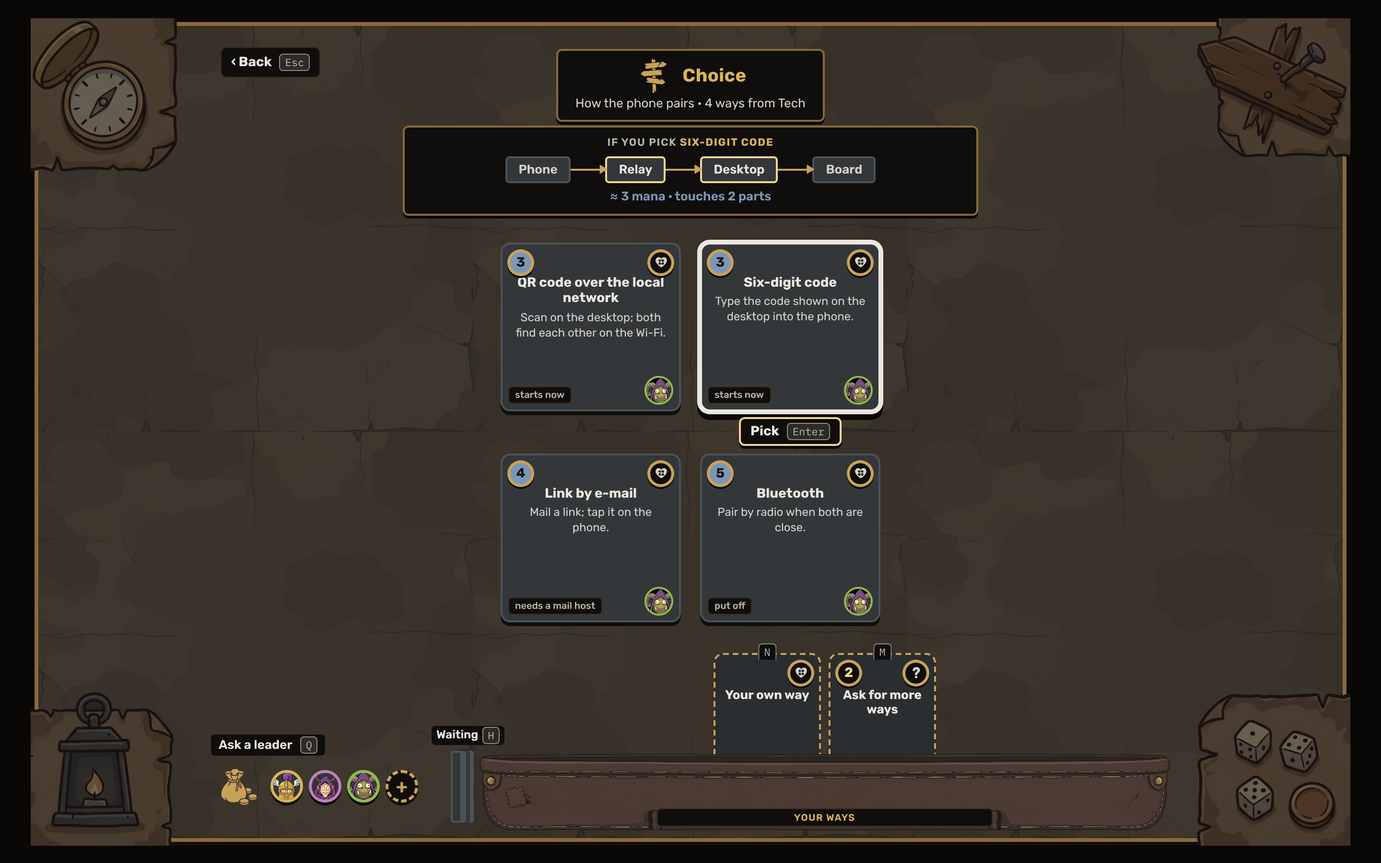
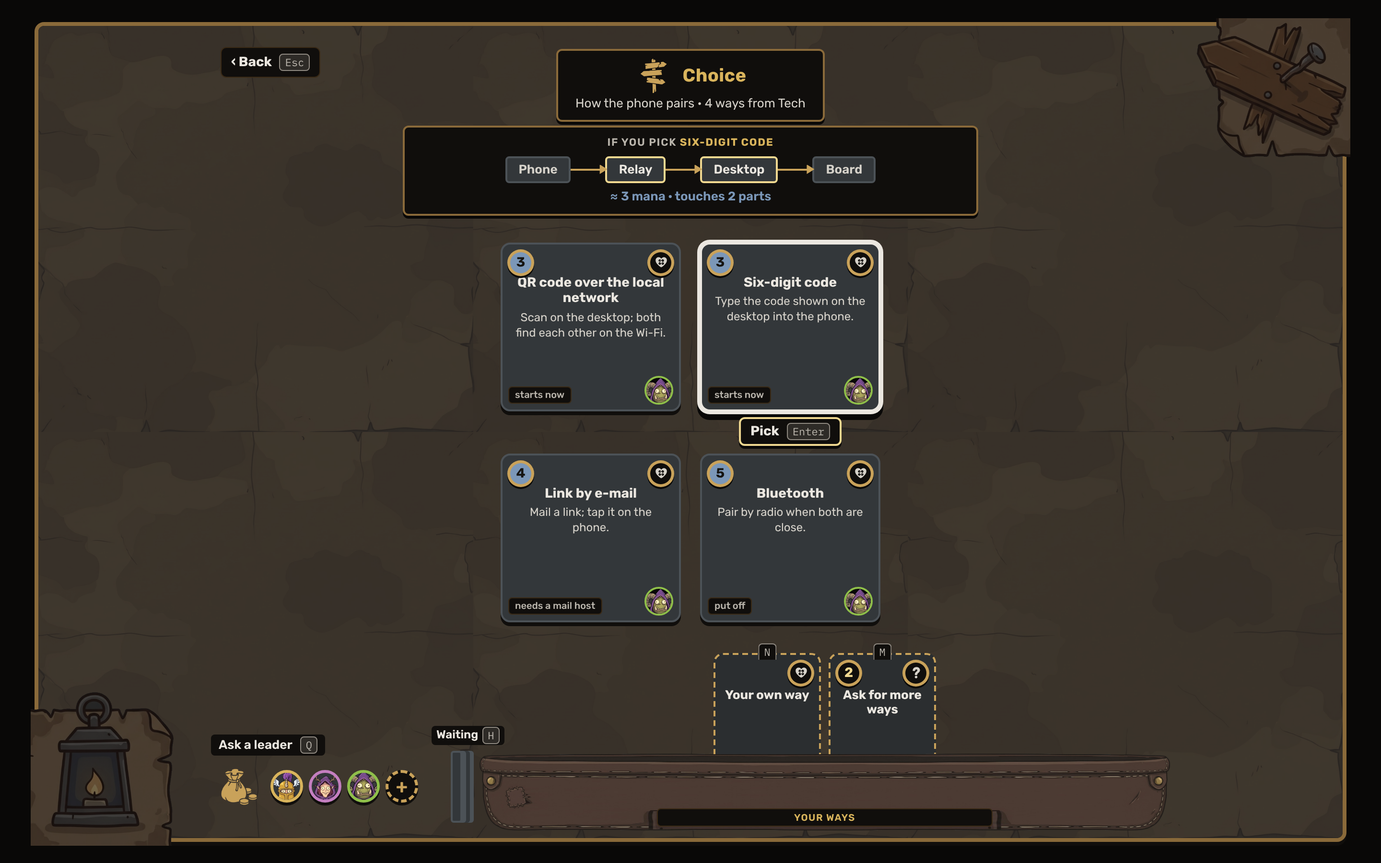
Mat mockups: two props, top right and bottom left (Back holds the top left, a new card the bottom right); on the phone the top right only
Claude-Session: https://claude.ai/code/session_01MCU3dnmwpxzAdFr5WE7TTZ

Changed region(s): [[0.0, 0.0, 0.125, 0.2178], [0.875, 0.8089, 1.0, 0.9956], [0.9062, 0.7778, 0.9375, 0.8089]]

diff --git a/docs/mockups/mat-scenes/slots.html b/docs/mockups/mat-scenes/slots.html
@@ -152,6 +152,11 @@ body[data-face="phone"] .plist { display: flex; flex-direction: column; gap: 18p
 .pc .seal .ic { width: 16px; height: 16px; } .pc .seal b { font-size: 11.5px; } .pc .seal small { width: 100%; text-align: center; font-size: 10.5px; }
 body[data-face="phone"] .pouchbar { top: 620px; }
 body[data-face="phone"] .hplate span { display: none; }
+/* two props, top right and bottom left (the person, 14 November 2026): Back holds the top left, a new card the bottom right */
+.prop.tl,.prop.br{display:none!important}
+.prop.bl{display:block!important}
+/* on the phone the foot is the hand's: the top right only */
+[data-face="phone"] .prop.bl{display:none!important}
 </style>
 </head>
 <body data-face="desk"><script>try { if (new URLSearchParams(location.search).get("face") === "phone") document.body.dataset.face = "phone"; } catch (e) {}</script><div class="stage"><div class="field" data-party="orkmaster"><div class="top"><span class="back">&lsaquo; Back <kbd class="k">Esc</kbd></span><div class="plate"><b><i aria-hidden="true"></i>Slots</b><span>Story map &middot; Product</span></div></div><div class="grid"><div></div><div class="jobh"><span class="gw tl"><span class="gem circle mana"><i class="in">3</i></span></span><span class="gw tr"><span class="gem circle"><i class="in"><i class="ru" style="--m:url(../../../design-system/orkui/runes/tusks.svg)"></i><i class="ks" style="--k:url(../../../design-system/orkui/signs/target.svg)"></i></i></span></span><img class="hd" src="../../../design-system/orkui/races/unicorn-elder.png" alt=""><b>Pair a phone</b></div><div class="jobh"><span class="gw tl"><span class="gem circle mana"><i class="in">2</i></span></span><span class="gw tr"><span class="gem circle"><i class="in"><i class="ru" style="--m:url(../../../design-system/orkui/runes/hook.svg)"></i><i class="ks" style="--k:url(../../../design-system/orkui/signs/target.svg)"></i></i></span></span><img class="hd" src="../../../design-system/orkui/races/unicorn-elder.png" alt=""><b>Send a goal</b></div><div class="jobh"><span class="gw tl"><span class="gem circle mana"><i class="in">5</i></span></span><span class="gw tr"><span class="gem circle"><i class="in"><i class="ru" style="--m:url(../../../design-system/orkui/runes/staff.svg)"></i><i class="ks" style="--k:url(../../../design-system/orkui/signs/target.svg)"></i></i></span></span><img class="hd" src="../../../design-system/orkui/races/unicorn-elder.png" alt=""><b>Answer a leader</b></div><div class="jobh"><span class="gw tl"><span class="gem circle mana"><i class="in">3</i></span></span><span class="gw tr"><span class="gem circle"><i class="in"><i class="ru" style="--m:url(../../../design-system/orkui/runes/key.svg)"></i><i class="ks" style="--k:url(../../../design-system/orkui/signs/target.svg)"></i></i></span></span><img class="hd" src="../../../design-system/orkui/races/unicorn-elder.png" alt=""><b>Ship a release</b></div><div></div><div class="card relc s"><span class="gw tl"><span class="gem circle mana"><i class="in">8</i></span></span><span class="gw tr"><span class="gem circle"><i class="in"><i class="ru" style="--m:url(../../../design-system/orkui/runes/hourglass.svg)"></i><i class="ks" style="--k:url(../../../design-system/orkui/signs/release.svg)"></i></i></span></span><img class="hd" src="../../../design-system/orkui/races/lich-elder.png" alt=""><b class="t">Release 1</b><span class="when">shipped 3 Nov</span></div><div class="cell "><div class="card s"><span class="gw tl"><span class="gem circle mana"><i class="in">2</i></span></span><span class="gw tr"><span class="gem circle"><i class="in"><i class="ru" style="--m:url(../../../design-system/orkui/runes/tusks.svg)"></i><i class="ks" style="--k:url(../../../design-system/orkui/signs/flag.svg)"></i></i></span></span><img class="hd" src="../../../design-system/orkui/races/shaman-elder.png" alt=""><b class="t">Scan the code</b><span class="when">shipped</span></div><div class="card s"><span class="gw tl"><span class="gem circle mana"><i class="in">1</i></span></span><span class="gw tr"><span class="gem circle"><i class="in"><i class="ru" style="--m:url(../../../design-system/orkui/runes/tusks.svg)"></i><i class="ks" style="--k:url(../../../design-system/orkui/signs/flag.svg)"></i></i></span></span><img class="hd" src="../../../design-system/orkui/races/shaman-elder.png" alt=""><b class="t">Pair by number</b><span class="when">shipped</span></div></div><div class="cell "><div class="card s"><span class="gw tl"><span class="gem circle mana"><i class="in">2</i></span></span><span class="gw tr"><span class="gem circle"><i class="in"><i class="ru" style="--m:url(../../../design-system/orkui/runes/hook.svg)"></i><i class="ks" style="--k:url(../../../design-system/orkui/signs/flag.svg)"></i></i></span></span><img class="hd" src="../../../design-system/orkui/races/dryad-elder.png" alt=""><b class="t">Add a goal</b><span class="when">shipped</span></div></div><div class="cell "><div class="card s"><span class="gw tl"><span class="gem circle mana"><i class="in">3</i></span></span><span class="gw tr"><span class="gem circle"><i class="in"><i class="ru" style="--m:url(../../../design-system/orkui/runes/staff.svg)"></i><i class="ks" style="--k:url(../../../design-system/orkui/signs/flag.svg)"></i></i></span></span><img class="hd" src="../../../design-system/orkui/races/shaman-elder.png" alt=""><b class="t">Answer in the app</b><span class="when">shipped</span></div><div class="card s"><span class="gw tl"><span class="gem circle mana"><i class="in">2</i></span></span><span class="gw tr"><span class="gem circle"><i class="in"><i class="ru" style="--m:url(../../../design-system/orkui/runes/ladder.svg)"></i><i class="ks" style="--k:url(../../../design-system/orkui/signs/flag.svg)"></i></i></span></span><img class="hd" src="../../../design-system/orkui/races/unicorn-elder.png" alt=""><b class="t">Choose a way</b><span class="when">shipped</span></div></div><div class="cell "><div class="card s"><span class="gw tl"><span class="gem circle mana"><i class="in">1</i></span></span><span class="gw tr"><span class="gem circle"><i class="in"><i class="ru" style="--m:url(../../../design-system/orkui/runes/key.svg)"></i><i class="ks" style="--k:url(../../../design-system/orkui/signs/flag.svg)"></i></i></span></span><img class="hd" src="../../../design-system/orkui/races/lich-elder.png" alt=""><b class="t">Write the notes</b><span class="when">shipped</span></div></div><div class="rend"><span class="done">All 4 goals in main</span></div><div class="card relc s"><span class="gw tl"><span class="gem circle mana"><i class="in">5</i></span></span><span class="gw tr"><span class="gem circle"><i class="in"><i class="ru" style="--m:url(../../../design-system/orkui/runes/hourglass.svg)"></i><i class="ks" style="--k:url(../../../design-system/orkui/signs/release.svg)"></i></i></span></span><img class="hd" src="../../../design-system/orkui/races/lich-elder.png" alt=""><b class="t">Release 2</b><span class="when">planned</span></div><div class="cell "><div class="card s"><span class="gw tl"><span class="gem circle mana"><i class="in">3</i></span></span><span class="gw tr"><span class="gem circle"><i class="in"><i class="ru" style="--m:url(../../../design-system/orkui/runes/tusks.svg)"></i><i class="ks" style="--k:url(../../../design-system/orkui/signs/flag.svg)"></i></i></span></span><img class="hd" src="../../../design-system/orkui/races/shaman-elder.png" alt=""><b class="t">Pair a second phone</b><span class="when">talk</span></div></div><div class="cell "><div class="card s"><span class="gw tl"><span class="gem circle mana"><i class="in">2</i></span></span><span class="gw tr"><span class="gem circle"><i class="in"><i class="ru" style="--m:url(../../../design-system/orkui/runes/hook.svg)"></i><i class="ks" style="--k:url(../../../design-system/orkui/signs/flag.svg)"></i></i></span></span><img class="hd" src="../../../design-system/orkui/races/gnome-elder.png" alt=""><b class="t">Send by mail</b><span class="when">spec</span></div><div class="card s"><span class="gw tl"><span class="gem circle mana"><i class="in">3</i></span></span><span class="gw tr"><span class="gem circle"><i class="in"><i class="ru" style="--m:url(../../../design-system/orkui/runes/hook.svg)"></i><i class="ks" style="--k:url(../../../design-system/orkui/signs/flag.svg)"></i></i></span></span><img class="hd" src="../../../design-system/orkui/races/dryad-elder.png" alt=""><b class="t">Send a photo</b><span class="when">new</span></div></div><div class="cell focus"><div class="card s"><span class="gw tl"><span class="gem circle mana"><i class="in">3</i></span></span><span class="gw tr"><span class="gem circle"><i class="in"><i class="ru" style="--m:url(../../../design-system/orkui/runes/staff.svg)"></i><i class="ks" style="--k:url(../../../design-system/orkui/signs/flag.svg)"></i></i></span></span><img class="hd" src="../../../design-system/orkui/races/dryad-elder.png" alt=""><b class="t">Pick a way by tap</b><span class="when">spec</span></div><div class="slot"><i class="plus"></i></div><span class="here">Place here <kbd>Enter</kbd></span></div><div class="cell empty "><i class="plus"></i></div><div class="rend"><div class="seal"><i class="ic"></i><b>Ship Release 2 <kbd>S</kbd></b><small>2 goals not in main</small></div></div><div class="frame-label">Not in a release<small>goals without a release</small></div><div class="cell empty "><i class="plus"></i></div><div class="cell "><div class="card s"><span class="gw tl"><span class="gem circle mana"><i class="in">2</i></span></span><span class="gw tr"><span class="gem circle"><i class="in"><i class="ru" style="--m:url(../../../design-system/orkui/runes/hook.svg)"></i><i class="ks" style="--k:url(../../../design-system/orkui/signs/flag.svg)"></i></i></span></span><img class="hd" src="../../../design-system/orkui/races/gnome-elder.png" alt=""><b class="t">Share a goal</b><span class="when">talk</span></div></div><div class="cell empty "><i class="plus"></i></div><div class="cell empty "><i class="plus"></i></div><div></div></div><div class="tabs"><span>R1</span><span class="on">R2</span><span>Not in a release</span></div><div class="plist"><div class="pc "><span class="lab">Pair a phone</span><div class="card s"><span class="gw tl"><span class="gem circle mana"><i class="in">3</i></span></span><span class="gw tr"><span class="gem circle"><i class="in"><i class="ru" style="--m:url(../../../design-system/orkui/runes/tusks.svg)"></i><i class="ks" style="--k:url(../../../design-system/orkui/signs/flag.svg)"></i></i></span></span><img class="hd" src="../../../design-system/orkui/races/shaman-elder.png" alt=""><b class="t">Pair a second phone</b><span class="when">talk</span></div></div><div class="pc "><span class="lab">Send a goal</span><div class="card s"><span class="gw tl"><span class="gem circle mana"><i class="in">2</i></span></span><span class="gw tr"><span class="gem circle"><i class="in"><i class="ru" style="--m:url(../../../design-system/orkui/runes/hook.svg)"></i><i class="ks" style="--k:url(../../../design-system/orkui/signs/flag.svg)"></i></i></span></span><img class="hd" src="../../../design-system/orkui/races/gnome-elder.png" alt=""><b class="t">Send by mail</b><span class="when">spec</span></div><div class="card s"><span class="gw tl"><span class="gem circle mana"><i class="in">3</i></span></span><span class="gw tr"><span class="gem circle"><i class="in"><i class="ru" style="--m:url(../../../design-system/orkui/runes/hook.svg)"></i><i class="ks" style="--k:url(../../../design-system/orkui/signs/flag.svg)"></i></i></span></span><img class="hd" src="../../../design-system/orkui/races/dryad-elder.png" alt=""><b class="t">Send a photo</b><span class="when">new</span></div></div><div class="pc focus"><span class="lab">Answer a leader</span><div class="card s"><span class="gw tl"><span class="gem circle mana"><i class="in">3</i></span></span><span class="gw tr"><span class="gem circle"><i class="in"><i class="ru" style="--m:url(../../../design-system/orkui/runes/staff.svg)"></i><i class="ks" style="--k:url(../../../design-system/orkui/signs/flag.svg)"></i></i></span></span><img class="hd" src="../../../design-system/orkui/races/dryad-elder.png" alt=""><b class="t">Pick a way by tap</b><span class="when">spec</span></div><div class="slot"><i class="plus"></i></div><span class="here">Place here</span></div><div class="pc empty"><span class="lab">Ship a release</span><i class="plus"></i><div class="seal"><i class="ic"></i><b>Ship Release 2</b><small>2 goals not in main</small></div></div></div><div class="waitpile" aria-label="Moves that wait"></div><span class="waitcap">Moves that wait</span><div class="hand"><div class="cards"><div class="card m"><span class="keytab">Place <kbd class="k">1</kbd></span><span class="gw tl"><span class="gem circle mana"><i class="in">3</i></span></span><span class="gw tr"><span class="gem circle"><i class="in"><i class="ru" style="--m:url(../../../design-system/orkui/runes/tusks.svg)"></i><i class="ks" style="--k:url(../../../design-system/orkui/signs/flag.svg)"></i></i></span></span><img class="hd" src="../../../design-system/orkui/races/shaman-elder.png" alt=""><b class="t">Reply from the phone</b><span class="when">new</span></div><div class="card m"><span class="keytab">Place <kbd class="k">2</kbd></span><span class="gw tr"><span class="gem circle"><i class="in"><i class="ru" style="--m:url(../../../design-system/orkui/runes/eye.svg)"></i><i class="ks" style="--k:url(../../../design-system/orkui/signs/flag.svg)"></i></i></span></span><img class="hd" src="../../../design-system/orkui/races/dryad-elder.png" alt=""><b class="t">Mute a leader</b><span class="when">talk</span></div><div class="card m"><span class="keytab">Place <kbd class="k">3</kbd></span><span class="gw tl"><span class="gem circle mana"><i class="in">5</i></span></span><span class="gw tr"><span class="gem circle"><i class="in"><i class="ru" style="--m:url(../../../design-system/orkui/runes/wave.svg)"></i><i class="ks" style="--k:url(../../../design-system/orkui/signs/flag.svg)"></i></i></span></span><img class="hd" src="../../../design-system/orkui/races/gnome-elder.png" alt=""><b class="t">Answer by voice</b><span class="when">new</span></div><i class="edge"></i><div class="card m blank"><span class="keytab"><kbd class="k">N</kbd></span><i class="plus"></i><b class="t">New goal</b></div></div><i class="pocket-front"></i><div class="hplate"><b>Goals to place</b></div></div><div class="pouchbar"><span class="cap">Ask a leader <kbd class="k">Q</kbd></span><i class="pouch" aria-hidden="true"></i><div class="row"><span class="tk tech"><img src="../../../design-system/orkui/races/shaman-elder.png" alt="Tech"></span><span class="tk design"><img src="../../../design-system/orkui/races/dryad-elder.png" alt="Design"></span><span class="tk product"><img src="../../../design-system/orkui/races/unicorn-elder.png" alt="Product"></span><span class="tk add" title="Ask another">+</span></div></div><div class="prop tl" aria-hidden="true"><img src="props/slots-tl.png" alt=""></div><div class="prop tr" aria-hidden="true"><img src="props/slots-tr.png" alt=""></div><div class="prop bl desk-only" aria-hidden="true"><img src="props/slots-bl.png" alt=""></div><div class="prop br desk-only" aria-hidden="true"><img src="props/slots-br.png" alt=""></div></div></div></body></html>

diff --git a/docs/mockups/mat-scenes/scheme.html b/docs/mockups/mat-scenes/scheme.html
@@ -160,6 +160,11 @@ body[data-face="phone"] .pouchbar { top: 616px; }
 body[data-face="phone"] .card.move .keytab { position: absolute; z-index: 3; top: -10px; left: 50%; translate: -50% 0; display: flex; gap: 4px; align-items: center; padding: 0 6px; font: 700 10.5px/16px var(--ork-font-text); color: var(--ork-ink); background: var(--ork-plate); border: 1px solid var(--ork-bronze); border-radius: 4px; white-space: nowrap; box-shadow: 0 2px 0 var(--ork-room); }
 .keytab kbd { font-size: 9.5px; line-height: 12px; padding: 0 3px; }
 .rune-pic { width: 22px; height: 22px; }
+/* two props, top right and bottom left (the person, 14 November 2026): Back holds the top left, a new card the bottom right */
+.prop.tl,.prop.br{display:none!important}
+.prop.bl{display:block!important}
+/* on the phone the foot is the hand's: the top right only */
+[data-face="phone"] .prop.bl{display:none!important}
 </style>
 </head>
 <body data-face="desk"><script>try { if (new URLSearchParams(location.search).get("face") === "phone") document.body.dataset.face = "phone"; } catch (e) {}</script><div class="stage"><div class="field" data-party="ork"><div class="top"><span class="back">&lsaquo; Back <kbd class="k">Esc</kbd></span><div class="plate"><b><i aria-hidden="true"></i>Scheme</b><span>Architecture &middot; Tech</span></div></div><svg class="arrows desk-svg" width="1360" height="848" viewBox="0 0 1360 848" aria-hidden="true"><path d="M354 216  L426 216"/><polygon points="438,216 424,208 424,224"/><path d="M604 216  L686 216"/><polygon points="698,216 684,208 684,224"/><path d="M864 216  L946 216"/><polygon points="958,216 944,208 944,224"/><path d="M776 324 L776 344 L660 344 L660 366"/><polygon points="660,378 652,364 668,364"/><path d="M776 324 L776 344 L900 344 L900 366"/><polygon points="900,378 892,364 908,364"/></svg><svg class="arrows ph-svg" width="362" height="794" viewBox="0 0 362 794" aria-hidden="true"><path d="M90 168  L90 172"/><polygon points="90,184 82,170 98,170"/><path d="M90 264  L90 268"/><polygon points="90,280 82,266 98,266"/><path d="M90 360  L90 364"/><polygon points="90,376 82,362 98,362"/><path d="M168 314  L186 314"/><polygon points="198,314 184,306 184,322"/><path d="M184 314 L184 410 L186 410"/><polygon points="198,410 184,402 184,418"/></svg><div class="deck d1"><i class="bk b3"></i><i class="bk b2"></i><i class="bk b1"></i><div class="card m"><span class="gw tl"><span class="gem circle mana"><i class="in">3</i></span></span><span class="gw tr"><span class="gem hex"><i class="in"><i class="ru" style="--m:url(../../../design-system/orkui/runes/wave.svg)"></i><i class="ks" style="--k:url(../../../design-system/orkui/signs/feature.svg)"></i></i></span></span><img class="hd" src="../../../design-system/orkui/races/shaman-elder.png" alt="Tech's leader keeps it"><span class="tplate">Phone app</span><span class="when">since 5 Nov</span></div></div><div class="deck d2 focus"><i class="bk b3"></i><i class="bk b2"></i><i class="bk b1"></i><div class="card m"><span class="gw tl"><span class="gem circle mana"><i class="in">5</i></span></span><span class="gw tr"><span class="gem hex"><i class="in"><i class="ru" style="--m:url(../../../design-system/orkui/runes/knot.svg)"></i><i class="ks" style="--k:url(../../../design-system/orkui/signs/feature.svg)"></i></i></span></span><img class="hd" src="../../../design-system/orkui/races/shaman-elder.png" alt="Tech's leader keeps it"><span class="tplate">Relay</span><span class="when">since 9 Nov</span></div><span class="problem" aria-label="Problem"><i></i></span></div><div class="deck d3"><i class="bk b3"></i><i class="bk b2"></i><i class="bk b1"></i><div class="card m"><span class="gw tl"><span class="gem circle mana"><i class="in">8</i></span></span><span class="gw tr"><span class="gem hex"><i class="in"><i class="ru" style="--m:url(../../../design-system/orkui/runes/ring-dots.svg)"></i><i class="ks" style="--k:url(../../../design-system/orkui/signs/feature.svg)"></i></i></span></span><img class="hd" src="../../../design-system/orkui/races/shaman-elder.png" alt="Tech's leader keeps it"><span class="tplate">Desktop host</span><span class="when">since 1 Nov</span></div></div><div class="deck d4"><i class="bk b3"></i><i class="bk b2"></i><i class="bk b1"></i><div class="card m"><span class="gw tl"><span class="gem circle mana"><i class="in">5</i></span></span><span class="gw tr"><span class="gem hex"><i class="in"><i class="ru" style="--m:url(../../../design-system/orkui/runes/ladder.svg)"></i><i class="ks" style="--k:url(../../../design-system/orkui/signs/feature.svg)"></i></i></span></span><img class="hd" src="../../../design-system/orkui/races/shaman-elder.png" alt="Tech's leader keeps it"><span class="tplate">Board files</span><span class="when">since 1 Nov</span></div></div><div class="deck d5"><i class="bk b3"></i><i class="bk b2"></i><i class="bk b1"></i><div class="card m"><span class="gw tl"><span class="gem circle mana"><i class="in">2</i></span></span><span class="gw tr"><span class="gem hex"><i class="in"><i class="ru" style="--m:url(../../../design-system/orkui/runes/staff.svg)"></i><i class="ks" style="--k:url(../../../design-system/orkui/signs/feature.svg)"></i></i></span></span><img class="hd" src="../../../design-system/orkui/races/shaman-elder.png" alt="Tech's leader keeps it"><span class="tplate">VS Code frame</span><span class="when">since 7 Nov</span></div></div><div class="deck d6"><i class="bk b3"></i><i class="bk b2"></i><i class="bk b1"></i><div class="card m"><span class="gw tl"><span class="gem circle mana"><i class="in">3</i></span></span><span class="gw tr"><span class="gem hex"><i class="in"><i class="ru" style="--m:url(../../../design-system/orkui/runes/eye.svg)"></i><i class="ks" style="--k:url(../../../design-system/orkui/signs/feature.svg)"></i></i></span></span><img class="hd" src="../../../design-system/orkui/races/shaman-elder.png" alt="Tech's leader keeps it"><span class="tplate">Leaders' passes</span><span class="when">since 10 Nov</span></div></div><div class="slip">Relay drops after 5 min<small>Marked 12 Nov</small></div><div class="fpanel"><i class="tie"></i><img class="hd" src="../../../design-system/orkui/races/shaman-elder.png" alt=""><b>Relay</b><small>Kept by Tech's leader</small><div class="btns"><span class="btn go">Open the deck <kbd>Enter</kbd></span><span class="btn">Ask Tech <kbd>Q</kbd></span></div></div><div class="waitpile" aria-label="Moves that wait"></div><span class="waitcap">Moves that wait</span><div class="hand"><div class="cards"><div class="card m move"><span class="keytab">Play <kbd class="k">P</kbd></span><span class="gw tr"><span class="gem circle"><i class="in"><i class="ru" style="--m:url(../../../design-system/orkui/runes/hourglass.svg)"></i><i class="ks" style="--k:url(../../../design-system/orkui/signs/alert.svg)"></i></i></span></span><i class="rune-pic" style="--m:url(../../../design-system/orkui/signs/alert.svg)"></i><b class="t">Mark a problem</b></div><div class="card m move"><span class="keytab">Play <kbd class="k">W</kbd></span><span class="gw tr"><span class="gem circle"><i class="in"><i class="ru" style="--m:url(../../../design-system/orkui/runes/knot.svg)"></i><i class="ks" style="--k:url(../../../design-system/orkui/signs/conflict.svg)"></i></i></span></span><i class="rune-pic" style="--m:url(../../../design-system/orkui/signs/conflict.svg)"></i><b class="t">Change a way</b></div><i class="edge"></i><div class="card m blank"><span class="keytab"><kbd class="k">N</kbd></span><i class="plus"></i><b class="t">New part</b></div></div><i class="pocket-front"></i><div class="hplate"><b>Parts</b></div></div><div class="pouchbar"><span class="cap">Ask a leader <kbd class="k">Q</kbd></span><i class="pouch" aria-hidden="true"></i><div class="row"><span class="tk tech"><img src="../../../design-system/orkui/races/shaman-elder.png" alt="Tech"></span><span class="tk design"><img src="../../../design-system/orkui/races/dryad-elder.png" alt="Design"></span><span class="tk product"><img src="../../../design-system/orkui/races/unicorn-elder.png" alt="Product"></span><span class="tk add" title="Ask another">+</span></div></div><div class="prop tl" aria-hidden="true"><img src="props/scheme-tl.png" alt=""></div><div class="prop tr" aria-hidden="true"><img src="props/scheme-tr.png" alt=""></div><div class="prop bl desk-only" aria-hidden="true"><img src="props/scheme-bl.png" alt=""></div><div class="prop br desk-only" aria-hidden="true"><img src="props/scheme-br.png" alt=""></div></div></div></body></html>

diff --git a/docs/mockups/mat-scenes/discussion.html b/docs/mockups/mat-scenes/discussion.html
@@ -207,6 +207,11 @@ body[data-face="phone"] .centre .card.big .hd { width: 44px; height: 44px; } bod
 body[data-face="phone"] .centre .card.big { --nw: 104px; --nh: 140px; }
 body[data-face="phone"] .centre .card.big .when { display: block; font-size: 9px; padding: 0 3px; left: 4px; bottom: 4px; }
 
+/* two props, top right and bottom left (the person, 14 November 2026): Back holds the top left, a new card the bottom right */
+.prop.tl,.prop.br{display:none!important}
+.prop.bl{display:block!important}
+/* on the phone the foot is the hand's: the top right only */
+[data-face="phone"] .prop.bl{display:none!important}
 </style>
 </head>
 <body data-face="desk">

diff --git a/docs/mockups/mat-scenes/piles.html b/docs/mockups/mat-scenes/piles.html
@@ -167,6 +167,11 @@ body[data-face="phone"] .row.book { flex-direction: row; gap: 4px; justify-conte
 body[data-face="phone"] .axis { left: 10px; right: 10px; top: 290px; }
 body[data-face="phone"] .dmark { top: 300px; } body[data-face="phone"] .day { font-size: 13px; padding: 2px 6px; }
 
+/* two props, top right and bottom left (the person, 14 November 2026): Back holds the top left, a new card the bottom right */
+.prop.tl,.prop.br{display:none!important}
+.prop.bl{display:block!important}
+/* on the phone the foot is the hand's: the top right only */
+[data-face="phone"] .prop.bl{display:none!important}
 </style>
 </head>
 <body data-face="desk">

diff --git a/docs/mockups/battle-field/index.html b/docs/mockups/battle-field/index.html
@@ -247,6 +247,11 @@ body[data-face="phone"] .gstack { padding-bottom: 20px; }
 body[data-face="phone"] .gstack .se { bottom: calc(20px - var(--i) * 6px); }
 body[data-face="phone"] .oldz.g { padding-bottom: 108px; }
 body[data-face="phone"] .mv.mid { top: calc(var(--chp) / -2); }
+/* two props, top right and bottom left (the person, 14 November 2026): Back holds the top left, a new card the bottom right */
+.prop.tl,.prop.br{display:none!important}
+.prop.bl{display:block!important}
+/* on the phone the foot is the hand's: the top right only */
+[data-face="phone"] .prop.bl{display:none!important}
 </style>
 </head>
 <body data-face="desk">

diff --git a/docs/mockups/mat-scenes/backpack.html b/docs/mockups/mat-scenes/backpack.html
@@ -176,6 +176,11 @@ body[data-face="phone"] .hcards .card .gem .in { font-size: 8px !important; }
 body[data-face="phone"] .hcards .card.blank { margin-left: 8px; }
 body[data-face="phone"] .hcards .card .price { display: none; }
 
+/* two props, top right and bottom left (the person, 14 November 2026): Back holds the top left, a new card the bottom right */
+.prop.tl,.prop.br{display:none!important}
+.prop.bl{display:block!important}
+/* on the phone the foot is the hand's: the top right only */
+[data-face="phone"] .prop.bl{display:none!important}
 </style>
 </head>
 <body data-face="desk">

diff --git a/docs/mockups/mat-scenes/choice.html b/docs/mockups/mat-scenes/choice.html
@@ -141,6 +141,11 @@ body[data-face="phone"] .grid .card .by { width: 22px; height: 22px; }
 body[data-face="phone"] .pick { font-size: 12px; padding: 3px 8px; }
 body[data-face="phone"] .hand .card.way { }
 
+/* two props, top right and bottom left (the person, 14 November 2026): Back holds the top left, a new card the bottom right */
+.prop.tl,.prop.br{display:none!important}
+.prop.bl{display:block!important}
+/* on the phone the foot is the hand's: the top right only */
+[data-face="phone"] .prop.bl{display:none!important}
 </style>
 </head>
 <body data-face="desk">
